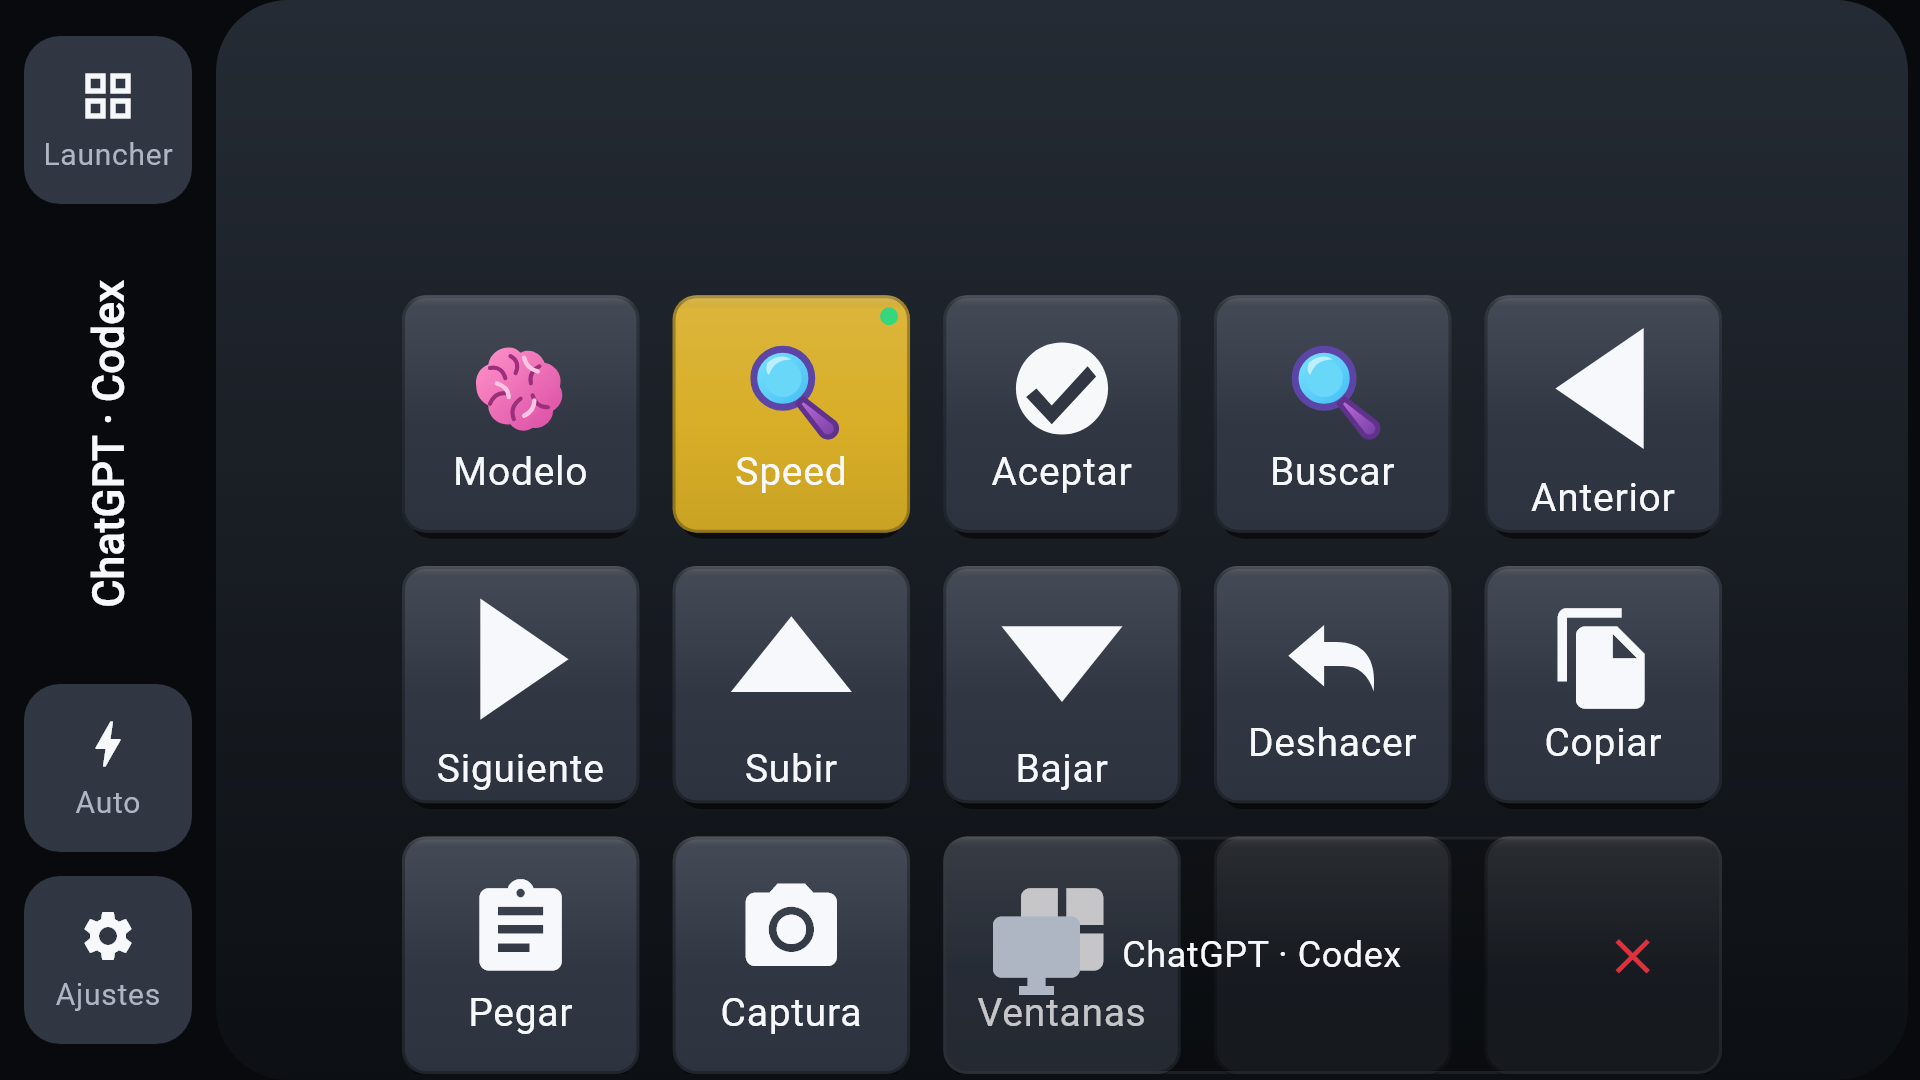
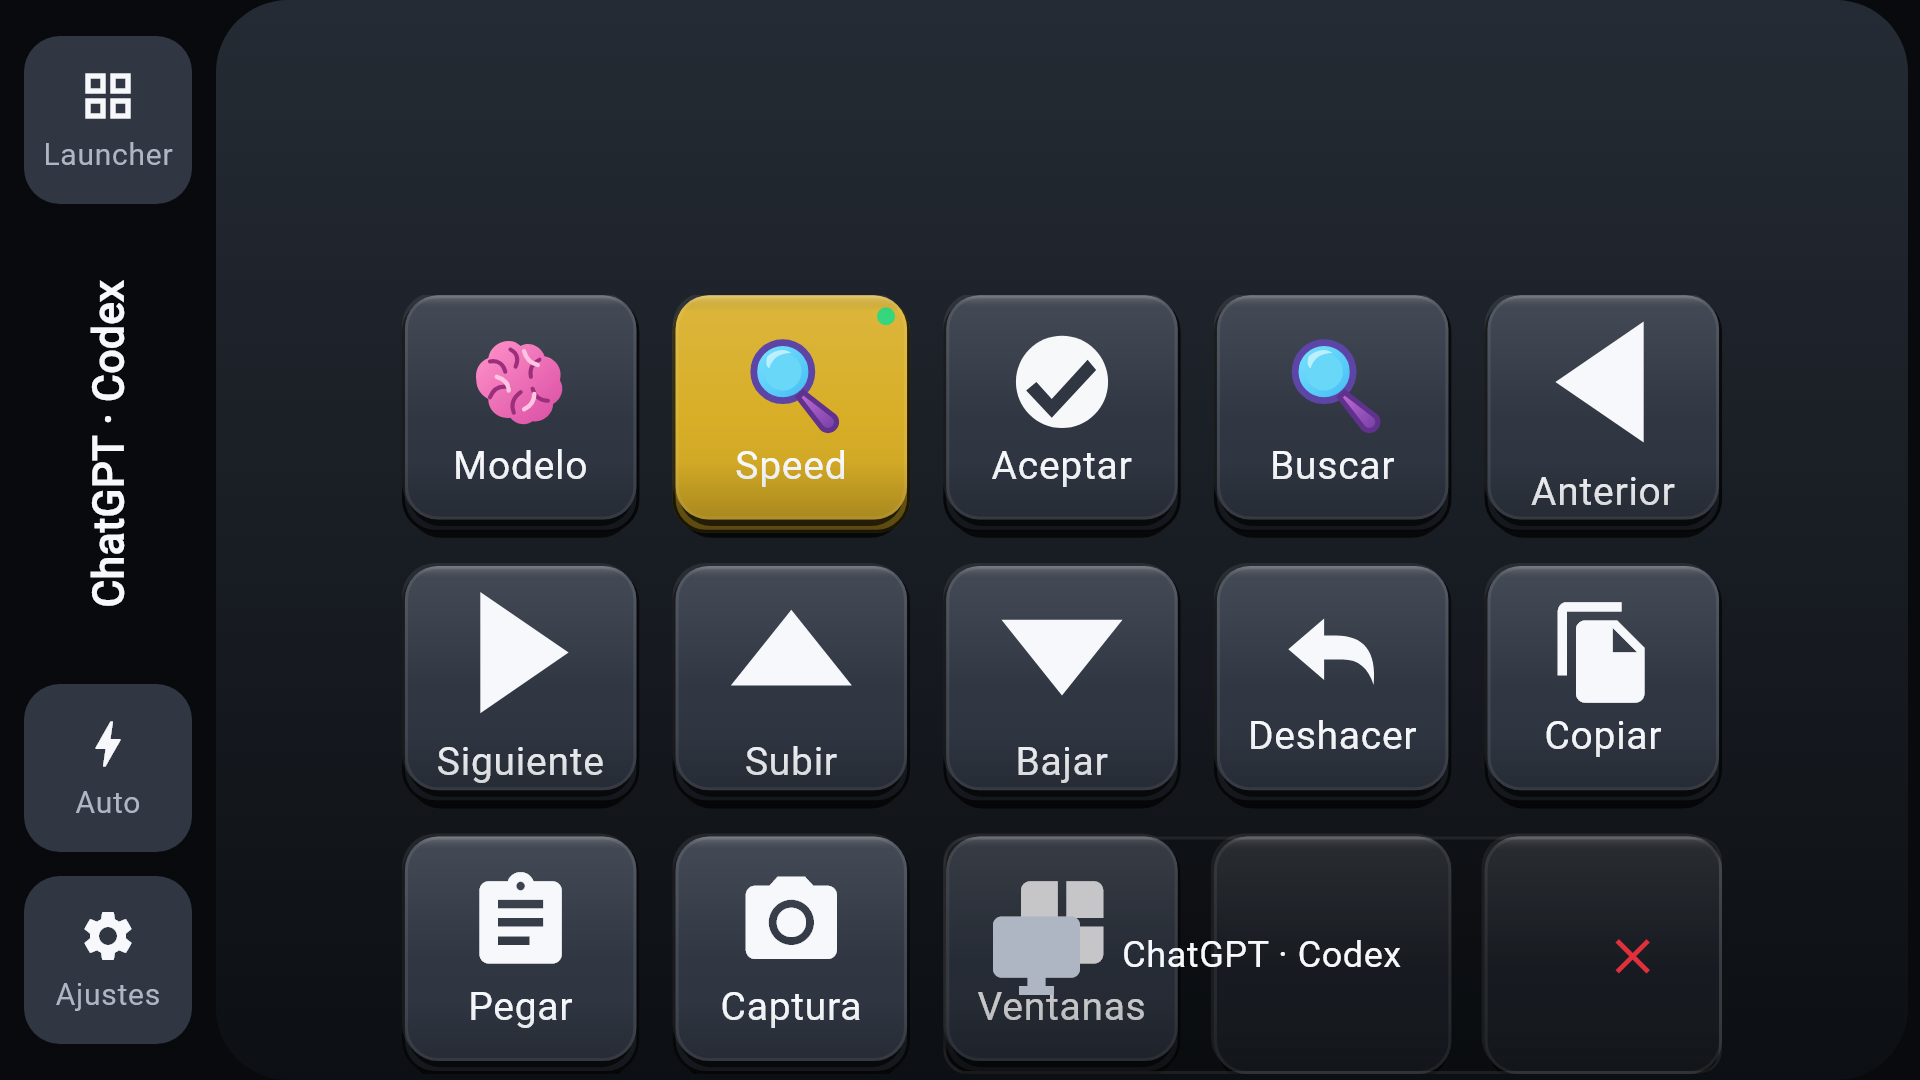
ui: give Android deck keys stronger physical depth

diff --git a/lib/ui/deck/key_widget.dart b/lib/ui/deck/key_widget.dart
@@ -127,7 +127,7 @@ class _KeyWidgetState extends State<KeyWidget>
 
   /// How far the cap sinks, in logical pixels. Small on purpose: the travel on a real deck is
   /// about a millimetre, and a millimetre at arm's length is about this.
-  static const _travel = 2.0;
+  static const _travel = 3.0;
   late final AnimationController _ringController;
 
   @override
@@ -355,6 +355,13 @@ class _KeyWidgetState extends State<KeyWidget>
     Widget content,
     bool screenReader,
   ) {
+    // The store artwork made the physical hierarchy easier to read than the original 8 px cap:
+    // a dark housing, a visible lower lip, then the lit face. Scale the moulding with the key so
+    // phone and tablet keep the same material instead of sharing one radius that only suits one.
+    final capRadius = (widget.size * 0.14).clamp(8.0, 18.0);
+    final lipDepth = (widget.size * 0.055).clamp(3.0, 6.0);
+    final faceWidth = (widget.width ?? widget.size) - (isEmpty ? 0 : 2);
+    final faceHeight = widget.size - (isEmpty ? 0 : lipDepth);
     return Listener(
       // DOWN on the pointer, not on the tap. With `onDoubleTap` registered the tap recognizer
       // waits for the arena before it says anything — measured at ~100 ms here — and a key pad
@@ -425,8 +432,42 @@ class _KeyWidgetState extends State<KeyWidget>
           duration: Duration(milliseconds: down ? 45 : 130),
           curve: down ? Curves.easeOut : Curves.easeOutBack,
           child: Stack(
-            alignment: Alignment.center,
+            alignment: Alignment.topCenter,
             children: [
+              // The housing remains still while the face travels. Its exposed lower edge is the
+              // depth cue that survives on dark OLED screens, where a soft shadow alone vanishes.
+              if (!isEmpty)
+                Positioned(
+                  left: 0,
+                  right: 0,
+                  top: 1,
+                  bottom: 0,
+                  child: DecoratedBox(
+                    key: const ValueKey('key-housing'),
+                    decoration: BoxDecoration(
+                      borderRadius: BorderRadius.circular(capRadius),
+                      gradient: LinearGradient(
+                        begin: Alignment.topCenter,
+                        end: Alignment.bottomCenter,
+                        colors: [
+                          Color.lerp(face, Colors.black, 0.28)!,
+                          Color.lerp(face, Colors.black, 0.58)!,
+                        ],
+                      ),
+                      border: Border.all(
+                        color: Colors.black.withValues(alpha: 0.72),
+                      ),
+                      boxShadow: [
+                        BoxShadow(
+                          color: Colors.black.withValues(alpha: 0.72),
+                          blurRadius: 12,
+                          spreadRadius: -2,
+                          offset: Offset(0, lipDepth * 0.85),
+                        ),
+                      ],
+                    ),
+                  ),
+                ),
               // A key cap, not a coloured square. What reads as "physical" is three things
               // agreeing: the light always comes from ABOVE (a gradient that flips reads as a
               // different material, not as a pressed key), the cap stands on an ambient shadow,
@@ -438,12 +479,10 @@ class _KeyWidgetState extends State<KeyWidget>
                 curve: down ? Curves.easeOut : Curves.easeOutBack,
                 transform: Matrix4.translationValues(0, down ? _travel : 0, 0),
                 transformAlignment: Alignment.center,
-                width: widget.width ?? widget.size,
-                height: widget.size,
+                width: faceWidth,
+                height: faceHeight,
                 decoration: BoxDecoration(
-                  borderRadius: BorderRadius.circular(
-                    DeckTokens.keyCornerRadiusPx,
-                  ),
+                  borderRadius: BorderRadius.circular(capRadius),
                   // Three stops, not two: a moulded cap is brightest just under its top edge, the
                   // way it catches a ceiling light, and falls off towards the base.
                   gradient: LinearGradient(
@@ -460,24 +499,33 @@ class _KeyWidgetState extends State<KeyWidget>
                   // negative spread, so the cap reads as sitting ON something instead of floating.
                   boxShadow: [
                     BoxShadow(
-                      color: Colors.black.withValues(alpha: down ? 0.35 : 0.55),
-                      blurRadius: down ? 3 : 10,
-                      spreadRadius: down ? -3 : -2,
-                      offset: Offset(0, down ? 1 : 4),
+                      color: Colors.black.withValues(alpha: down ? 0.30 : 0.62),
+                      blurRadius: down ? 2 : 8,
+                      spreadRadius: down ? -3 : -1,
+                      offset: Offset(0, down ? 1 : lipDepth * 0.72),
+                    ),
+                    BoxShadow(
+                      color: Colors.white.withValues(
+                        alpha: down ? 0.01 : 0.075,
+                      ),
+                      blurRadius: 1,
+                      offset: const Offset(-1, -1),
                     ),
                   ],
                   // The seam where the cap meets its housing. Uniform, because Flutter cannot
                   // round a border whose sides differ — the lit top edge is the overlay below.
                   border: Border.all(
-                    color: Colors.black.withValues(alpha: down ? 0.10 : 0.28),
+                    color: down
+                        ? Colors.black.withValues(alpha: 0.26)
+                        : Colors.white.withValues(alpha: 0.085),
                   ),
                 ),
                 child: content,
               ),
               if (key.stateOn)
                 Positioned(
-                  top: 4,
-                  right: 4,
+                  top: 4 + (down ? _travel : 0),
+                  right: 5,
                   child: Container(
                     width: 6,
                     height: 6,
@@ -489,22 +537,22 @@ class _KeyWidgetState extends State<KeyWidget>
                 ),
               if (key.current)
                 Positioned(
-                  left: 2,
-                  top: 8,
-                  bottom: 8,
+                  left: 3,
+                  top: 8 + (down ? _travel : 0),
                   child: Container(
                     width: 3,
                     color: const Color(DeckTokens.accent),
                   ),
                 ),
               if (key.minimized)
-                Container(
-                  width: widget.width ?? widget.size,
-                  height: widget.size,
-                  decoration: BoxDecoration(
-                    color: Colors.black.withValues(alpha: 0.45),
-                    borderRadius: BorderRadius.circular(
-                      DeckTokens.keyCornerRadiusPx,
+                Transform.translate(
+                  offset: Offset(0, down ? _travel : 0),
+                  child: Container(
+                    width: faceWidth,
+                    height: faceHeight,
+                    decoration: BoxDecoration(
+                      color: Colors.black.withValues(alpha: 0.45),
+                      borderRadius: BorderRadius.circular(capRadius),
                     ),
                   ),
                 ),
@@ -515,21 +563,24 @@ class _KeyWidgetState extends State<KeyWidget>
                 child: AnimatedOpacity(
                   opacity: down ? 0.15 : 1,
                   duration: Duration(milliseconds: down ? 45 : 130),
-                  child: Container(
-                    width: widget.size,
-                    height: widget.size,
-                    decoration: BoxDecoration(
-                      borderRadius: BorderRadius.circular(
-                        DeckTokens.keyCornerRadiusPx,
-                      ),
-                      gradient: LinearGradient(
-                        begin: Alignment.topCenter,
-                        end: Alignment.bottomCenter,
-                        stops: const [0, 0.06],
-                        colors: [
-                          Colors.white.withValues(alpha: 0.16),
-                          Colors.transparent,
-                        ],
+                  child: Transform.translate(
+                    offset: Offset(0, down ? _travel : 0),
+                    child: Container(
+                      width: faceWidth,
+                      height: faceHeight,
+                      decoration: BoxDecoration(
+                        borderRadius: BorderRadius.circular(capRadius),
+                        gradient: LinearGradient(
+                          begin: Alignment.topCenter,
+                          end: Alignment.bottomCenter,
+                          stops: const [0, 0.07, 0.74, 1],
+                          colors: [
+                            Colors.white.withValues(alpha: 0.22),
+                            Colors.transparent,
+                            Colors.transparent,
+                            Colors.black.withValues(alpha: 0.16),
+                          ],
+                        ),
                       ),
                     ),
                   ),
@@ -540,13 +591,14 @@ class _KeyWidgetState extends State<KeyWidget>
               // wrong with this key" — red is what a danger key is painted, and this is not that.
               // The face dims so the spinner is the thing being read.
               if (widget.launching) ...[
-                Container(
-                  width: widget.size,
-                  height: widget.size,
-                  decoration: BoxDecoration(
-                    color: Colors.black.withValues(alpha: 0.45),
-                    borderRadius: BorderRadius.circular(
-                      DeckTokens.keyCornerRadiusPx,
+                Transform.translate(
+                  offset: Offset(0, down ? _travel : 0),
+                  child: Container(
+                    width: faceWidth,
+                    height: faceHeight,
+                    decoration: BoxDecoration(
+                      color: Colors.black.withValues(alpha: 0.45),
+                      borderRadius: BorderRadius.circular(capRadius),
                     ),
                   ),
                 ),

diff --git a/test/widget_test.dart b/test/widget_test.dart
@@ -971,39 +971,39 @@ void main() {
 
   /// `listWindows` gives up by throwing, and nothing caught it: the screen waited eight seconds
   /// and then span for ever, with an unhandled async error behind it.
-  testWidgets(
-    'the window switcher says it failed instead of spinning for ever',
-    (tester) async {
-      final source =
-          _TenKeys(); // its listWindows throws, like a host that never answers
-      addTearDown(source.dispose);
-      await tester.pumpWidget(
-        MaterialApp(
-          localizationsDelegates: AppLocalizations.localizationsDelegates,
-          supportedLocales: AppLocalizations.supportedLocales,
-          home: WindowSwitcherScreen(layoutSource: source),
-        ),
-      );
-      await tester.pump();
-      await tester.pumpAndSettle();
+  testWidgets('the window switcher says it failed instead of spinning for ever', (
+    tester,
+  ) async {
+    final source =
+        _TenKeys(); // its listWindows throws, like a host that never answers
+    addTearDown(source.dispose);
+    await tester.pumpWidget(
+      MaterialApp(
+        localizationsDelegates: AppLocalizations.localizationsDelegates,
+        supportedLocales: AppLocalizations.supportedLocales,
+        home: WindowSwitcherScreen(layoutSource: source),
+      ),
+    );
+    await tester.pump();
+    await tester.pumpAndSettle();
 
-      expect(find.byType(CircularProgressIndicator), findsNothing);
-      expect(
-        find.text('Auto'),
-        findsOneWidget,
-        reason: 'choosing a window always makes its automatic app deck authoritative',
-      );
-      expect(
-        find.text('Could not reach your PC to list its windows.'),
-        findsOneWidget,
-      );
-      expect(
-        find.text('Try again'),
-        findsOneWidget,
-        reason: 'and a way forward, not just a dead end',
-      );
-    },
-  );
+    expect(find.byType(CircularProgressIndicator), findsNothing);
+    expect(
+      find.text('Auto'),
+      findsOneWidget,
+      reason:
+          'choosing a window always makes its automatic app deck authoritative',
+    );
+    expect(
+      find.text('Could not reach your PC to list its windows.'),
+      findsOneWidget,
+    );
+    expect(
+      find.text('Try again'),
+      findsOneWidget,
+      reason: 'and a way forward, not just a dead end',
+    );
+  });
 
   /// Back used to do one of two things depending on how you got to the deck, and neither was
   /// intended: on a relaunch it closed the app outright, and in the session where you paired it
@@ -1469,6 +1469,7 @@ void main() {
           )
           .first,
     );
+    final housingFinder = find.byKey(const ValueKey('key-housing'));
     double sink(AnimatedContainer c) =>
         (c.transform ?? Matrix4.identity()).getTranslation().y;
     BoxShadow shadow(AnimatedContainer c) =>
@@ -1476,6 +1477,12 @@ void main() {
 
     final atRest = cap();
     expect(sink(atRest), 0);
+    expect(housingFinder, findsOneWidget);
+    expect(
+      atRest.constraints!.maxHeight,
+      lessThan(80),
+      reason: 'the face leaves room for the dark lower lip at rest',
+    );
 
     final gesture = await tester.startGesture(
       tester.getCenter(find.byType(KeyWidget)),
